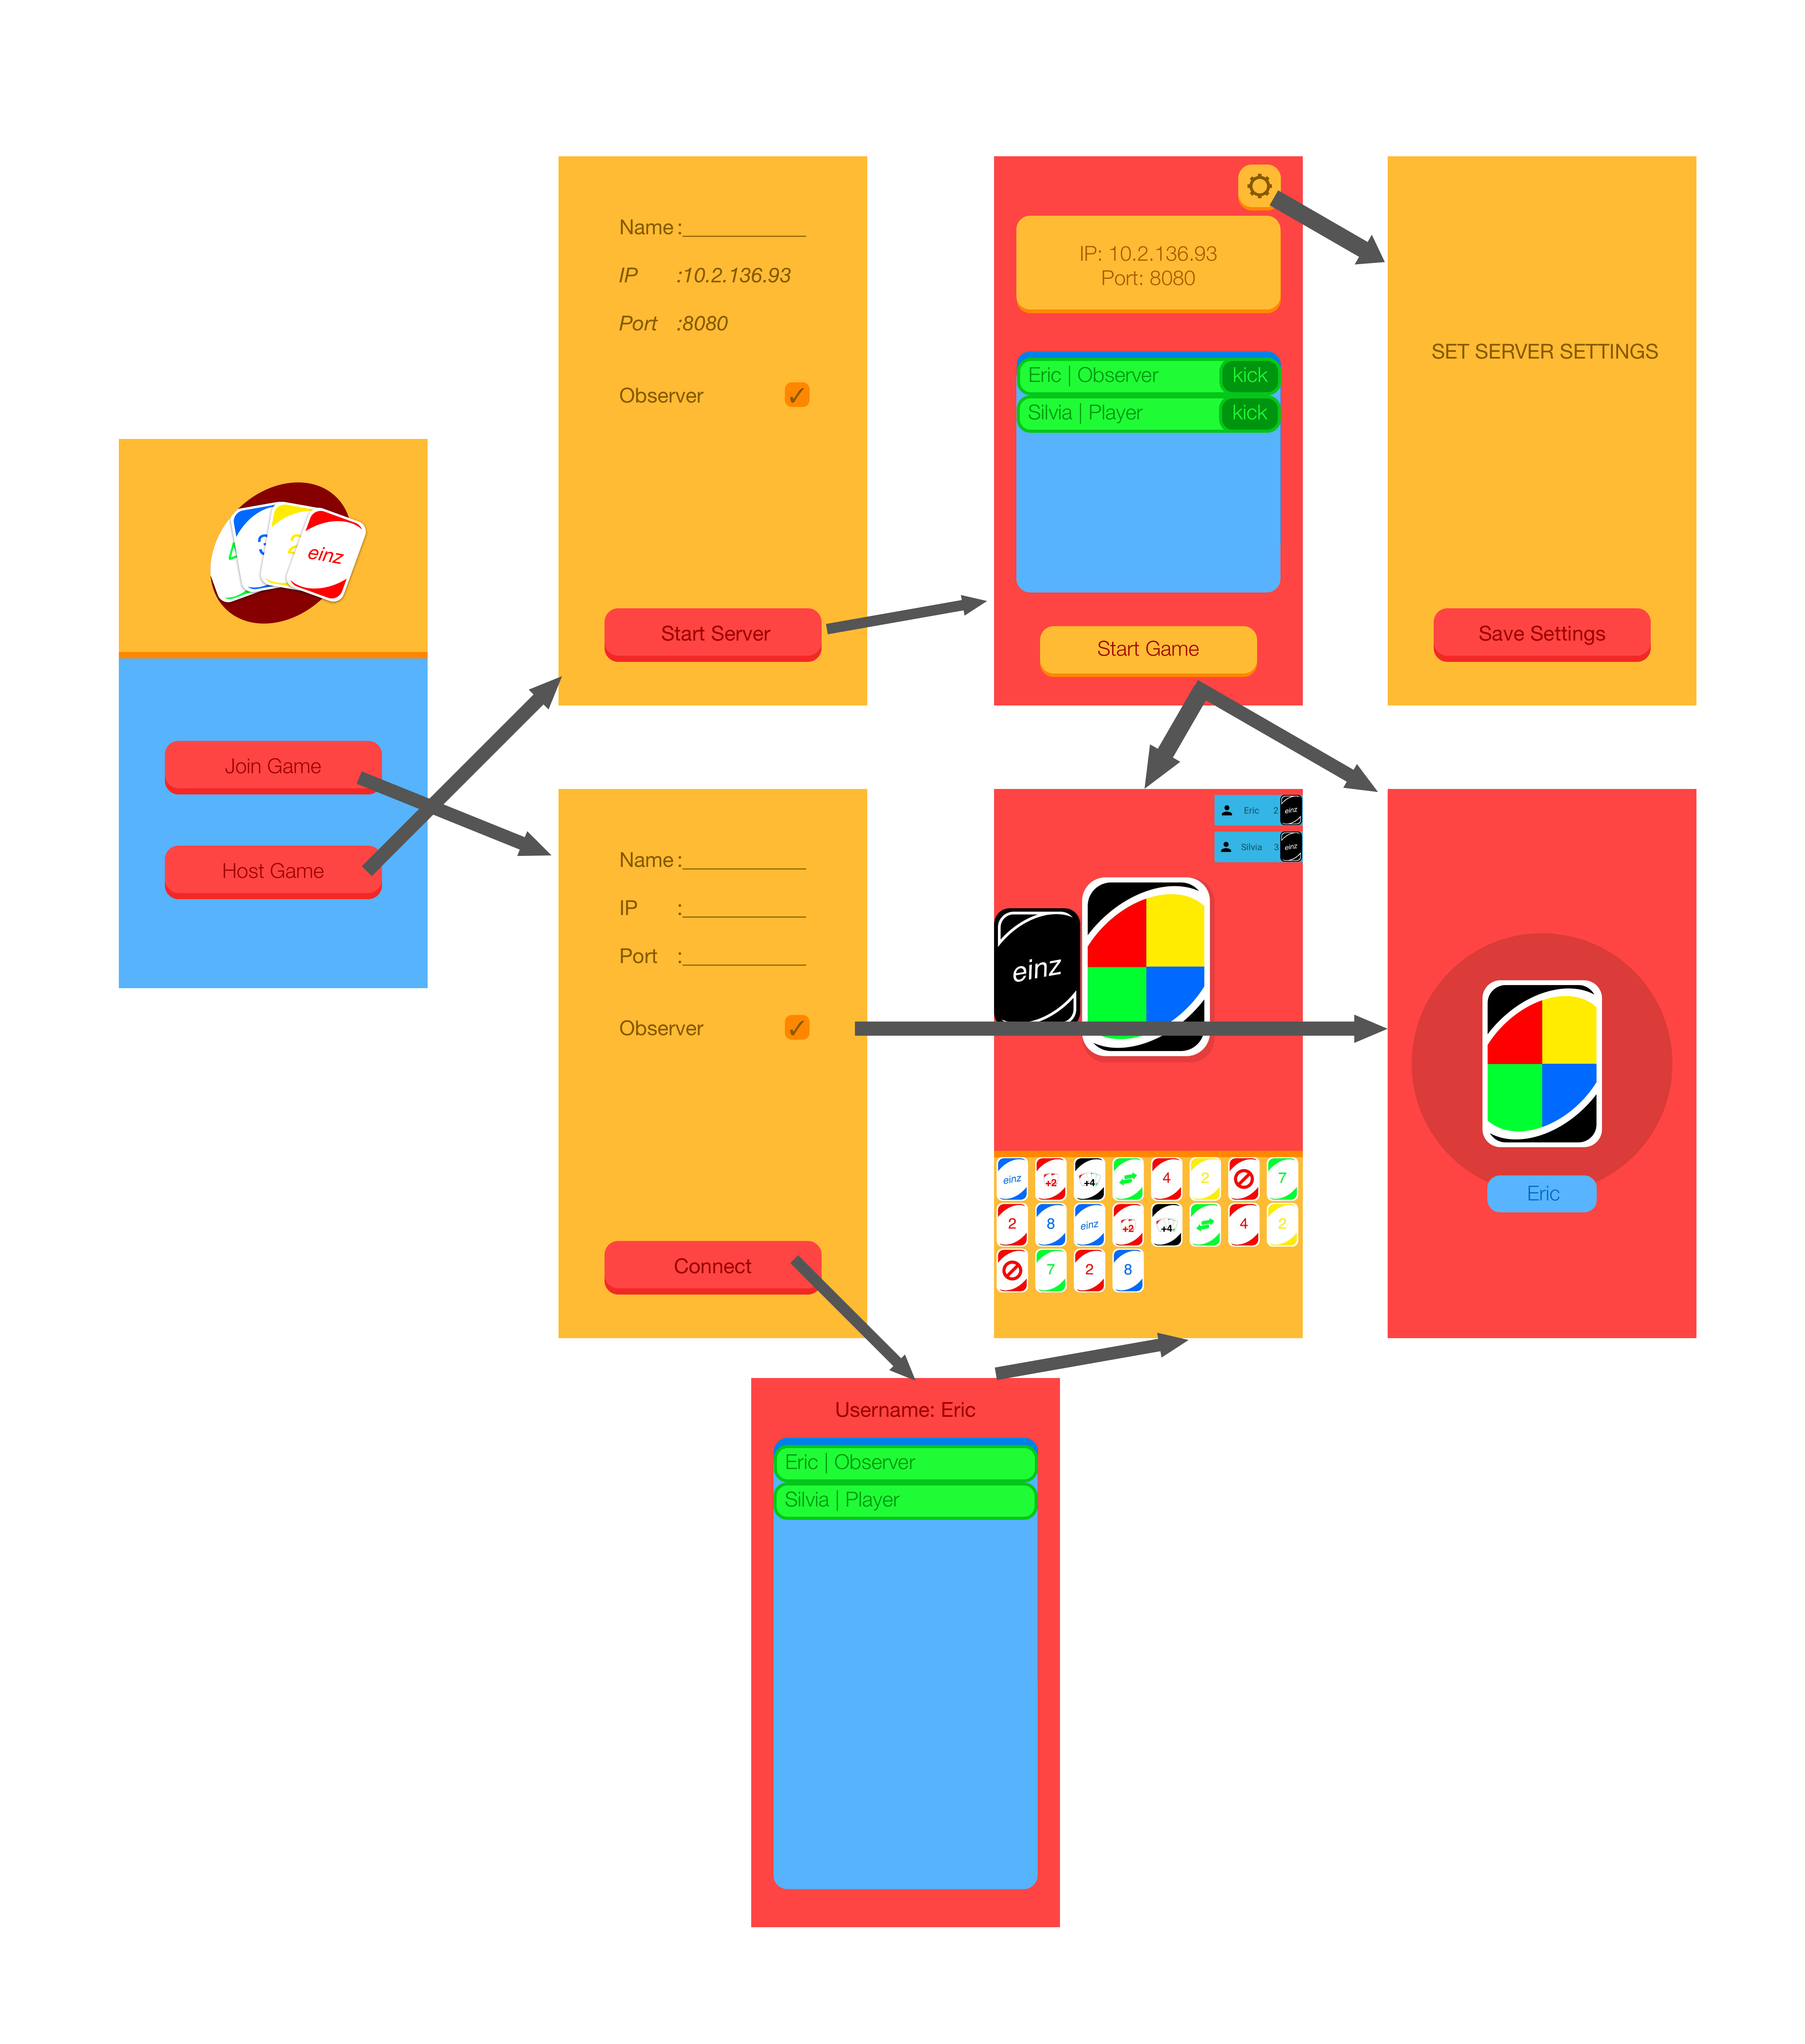
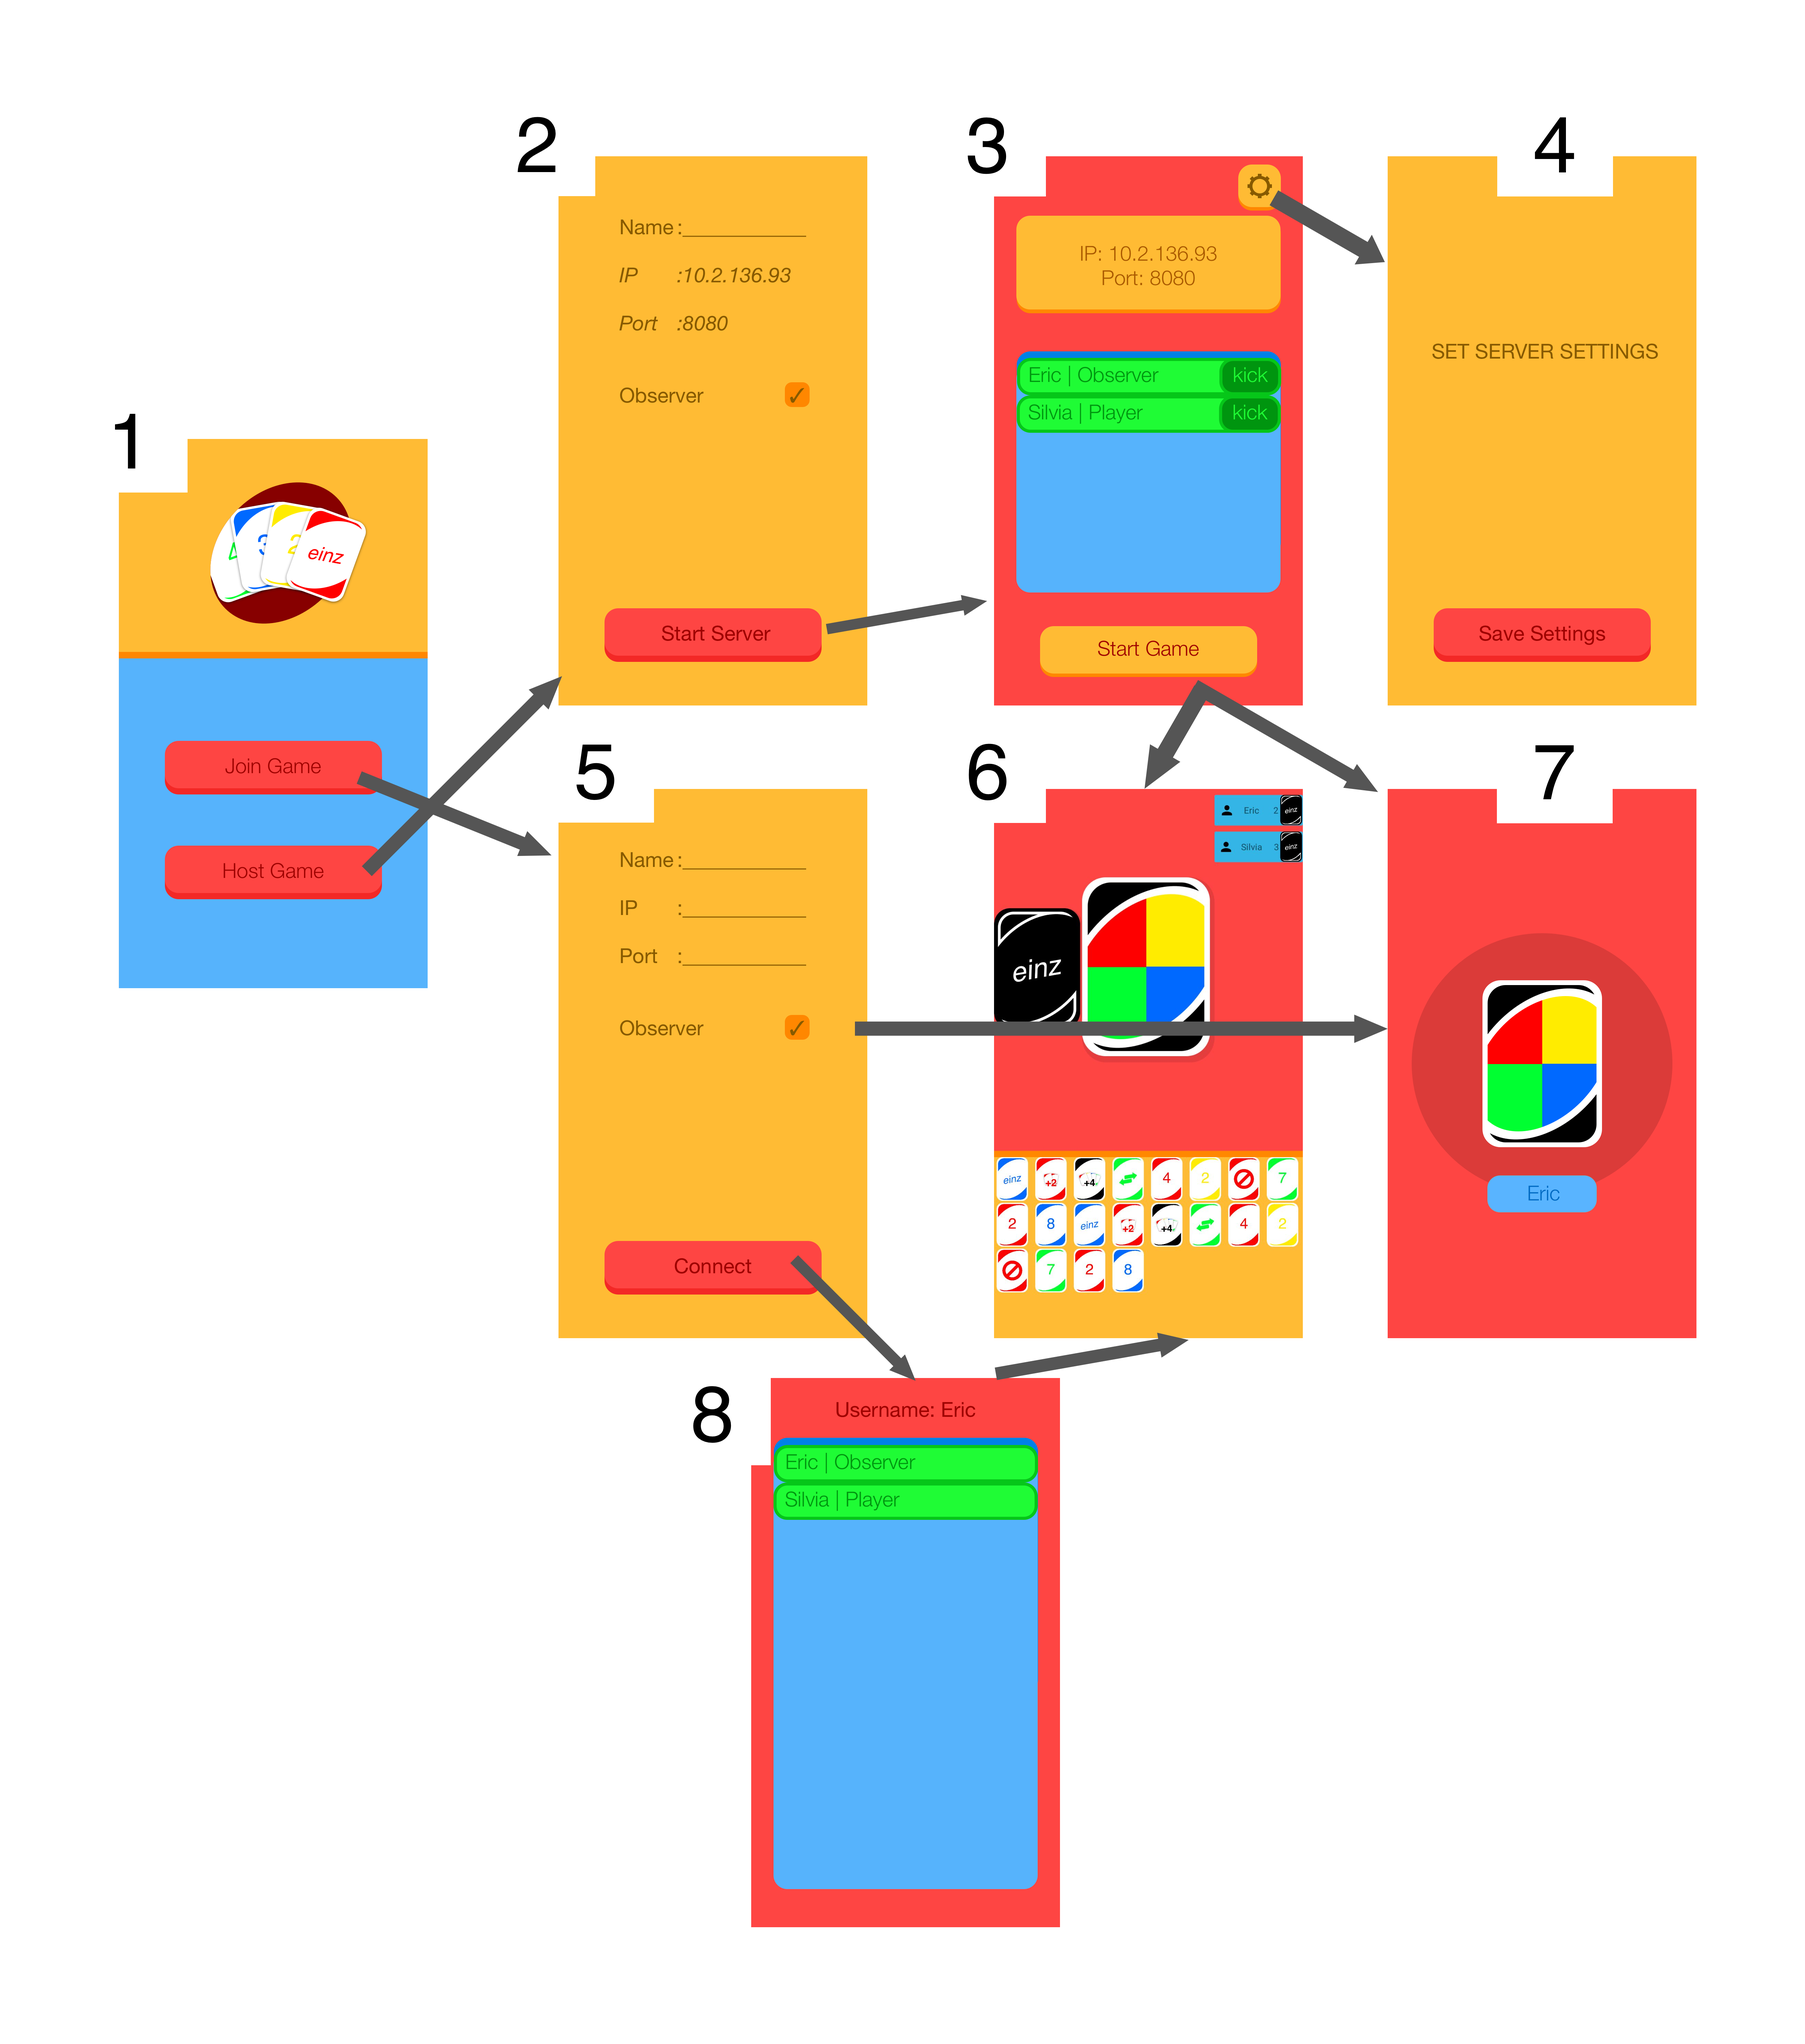
added numbers in artboard and fixed indexes in the tex file

diff --git a/proposal/report.tex b/proposal/report.tex
@@ -200,7 +200,7 @@ We will make it so that the server does most of the computations and only sends 
 We are also trying to keep the classes themselves very modular to make updating them - e.g. by adding further rules - just as simple.\\
 Once the game is in a working state with a few rules such as an additional card like the one where the player can choose a color or the well-known "+2" card from UNO, we will decide whether we need to focus on bugfixing, cleaning up code, implementing a LUS for NAT-traversal~\rfig{nat} or adding more rule options. Adding a LUS might impose additional difficulties because some mobile carriers might use symmetric NATs. If these difficulties arise, we will probably resort to only implementing NAT-traversal for the other (easier) types of NATs.\\
 
-We designed the User Interface for the standard scenario from starting the app to start playing to look like the following: The first screen (1) is for the player to choose, whether he wants to start a new game or join an already existing game. If he decides to start a new one, he will start the server in an android thread in the background. He will be prompted to enter his username and decide whether he wants to play or observe/spectate the game. If he presses the "Start Server" Button in (2) after filling out the missing information, he will connect himself as an admin to the previously started server running in the background of his device. After that he will be forwarded to an activity (3), with the necessary information for others to connect and a list of already connected players/observers. By pressing the settings button he will be taken to (4) and it's here where further settings and rules of the server and game can be changed. A client that joins a game will go through a similar process. He has to start by filling out his name, the host ip and port and whether he want's to act as a player or a spectator (5). Once the player connects to the server he will see a list of other players/observers, but not be able to kick them or change any settings, as this is left for the host/admin (9). When the host starts the game everyone will see the activity in which the game can be played and either see a standard view with his hand, the topmost card, all connected players and the amount of cards in each hand (6) or he will see the view of the spectator(7). Players will be able to place any by the server as placable declared card or draw cards from the heap. Spectators will see the public gamestate, but not any specific cards in any hand, they will also not be able to interact in the game. The usecase for this option, is that you could place a larger andoid device (tabled, phablet) in the middle of a table to get the "classic cardgame feel" while still playing on mobile devices. \\
+We designed the User Interface for the standard scenario from starting the app to start playing to look like the following: The first screen (1) is for the player to choose, whether he wants to start a new game or join an already existing game. If he decides to start a new one, he will start the server in an android thread in the background. He will be prompted to enter his username and decide whether he wants to play or observe/spectate the game. If he presses the "Start Server" Button in (2) after filling out the missing information, he will connect himself as an admin to the previously started server running in the background of his device. After that he will be forwarded to an activity (3), with the necessary information for others to connect and a list of already connected players/observers. By pressing the settings button he will be taken to (4) and it's here where further settings and rules of the server and game can be changed. A client that joins a game will go through a similar process. He has to start by filling out his name, the host ip and port and whether he want's to act as a player or a spectator (5). Once the player connects to the server he will see a list of other players/observers, but not be able to kick them or change any settings, as this is left for the host/admin (8). When the host starts the game everyone will see the activity in which the game can be played and either see a standard view with his hand, the topmost card, all connected players and the amount of cards in each hand (6) or he will see the view of the spectator(7). Players will be able to place any by the server as placable declared card or draw cards from the heap. Spectators will see the public gamestate, but not any specific cards in any hand, they will also not be able to interact in the game. The usecase for this option, is that you could place a larger andoid device (tabled, phablet) in the middle of a table to get the "classic cardgame feel" with a physical representation of the discard pile while still playing on mobile devices. \\
 \begin{figure}[h]
 	\centering
     \includegraphics[width=\columnwidth]{Artboard.png}
